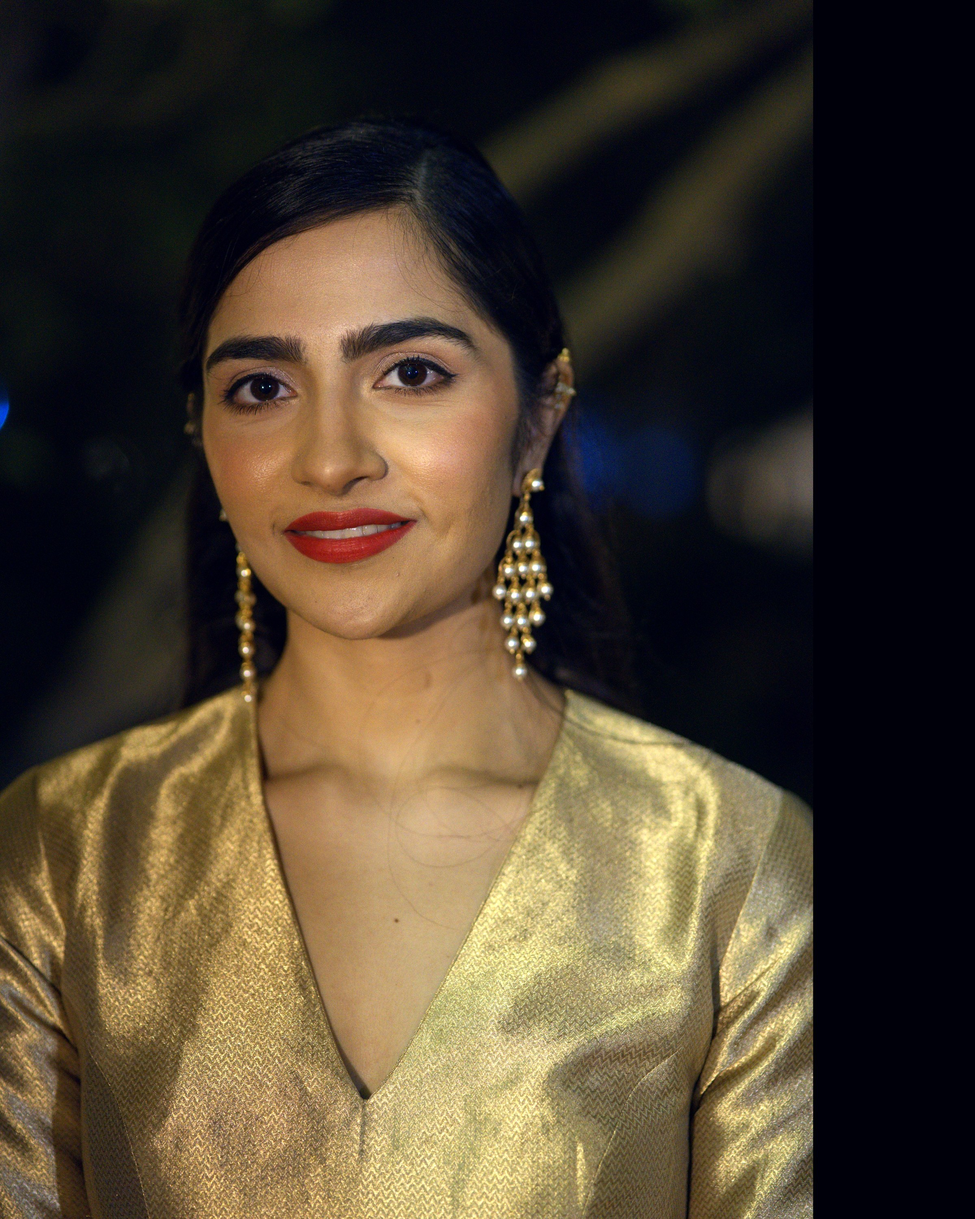
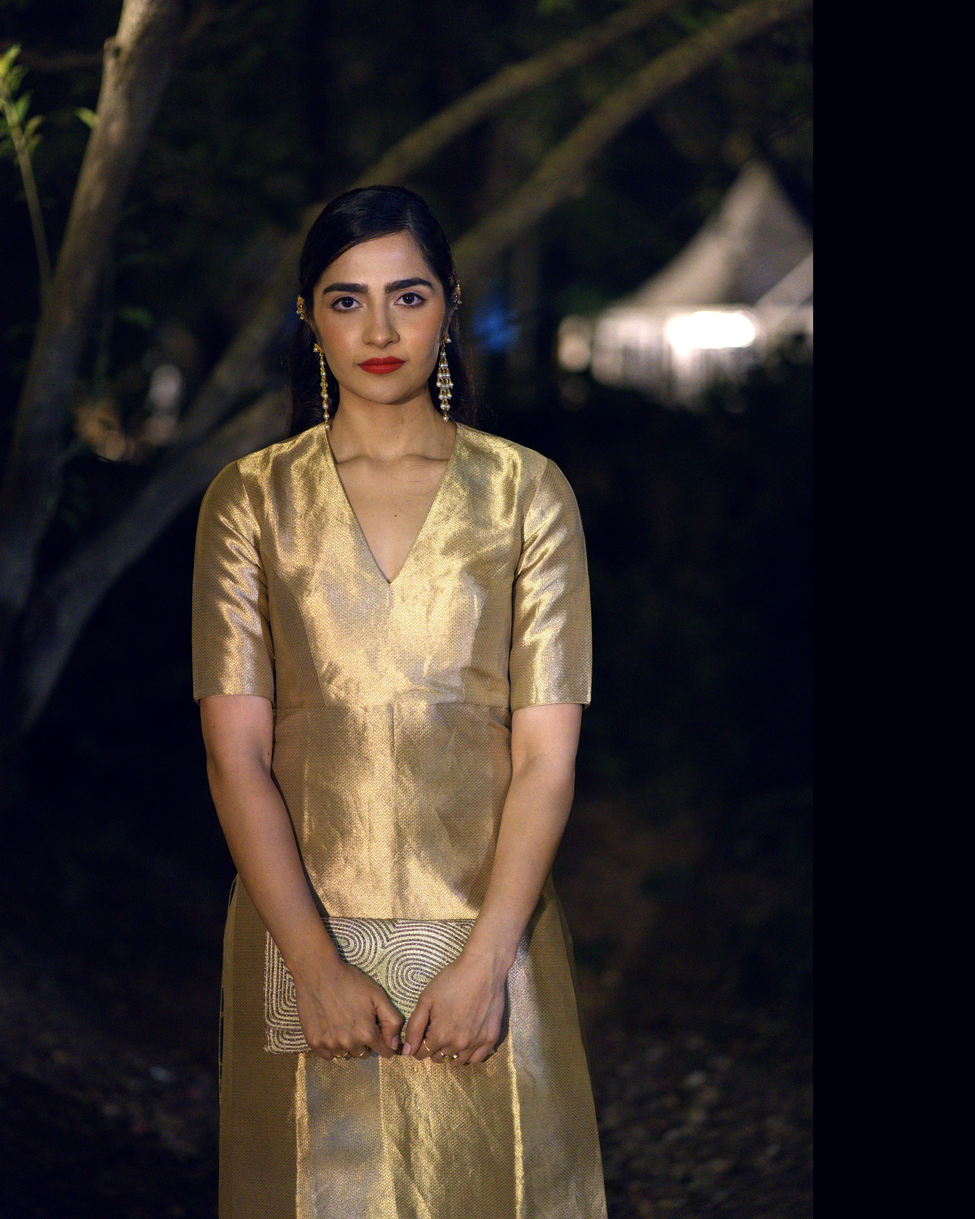
Featured Rukmini: switch to full-length frame (09180) + safe crop position so the face never gets clipped

diff --git a/ruk-choose.html b/ruk-choose.html
@@ -1,0 +1,1 @@
+<!DOCTYPE html><html><head><style>body{background:#0c0a10;color:#eee;font-family:Georgia,serif;margin:24px}h1{font-weight:500}div{display:grid;grid-template-columns:repeat(4,1fr);gap:14px}figure{margin:0}img{width:100%;display:block;border-radius:8px}figcaption{font-family:monospace;font-size:11px;color:#9f9;padding:5px 0}</style></head><body><h1>Pick the Rukmini frame for the Featured card</h1><div><figure><img src="klr-thumbs/ruk-choose/YKS09180.jpg"/><figcaption>09180</figcaption></figure><figure><img src="klr-thumbs/ruk-choose/YKS09181.jpg"/><figcaption>09181</figcaption></figure><figure><img src="klr-thumbs/ruk-choose/YKS09182.jpg"/><figcaption>09182</figcaption></figure><figure><img src="klr-thumbs/ruk-choose/YKS09183.jpg"/><figcaption>09183</figcaption></figure><figure><img src="klr-thumbs/ruk-choose/YKS09184.jpg"/><figcaption>09184</figcaption></figure><figure><img src="klr-thumbs/ruk-choose/YKS09185.jpg"/><figcaption>09185</figcaption></figure><figure><img src="klr-thumbs/ruk-choose/YKS09186.jpg"/><figcaption>09186</figcaption></figure><figure><img src="klr-thumbs/ruk-choose/YKS09187.jpg"/><figcaption>09187</figcaption></figure><figure><img src="klr-thumbs/ruk-choose/YKS09188.jpg"/><figcaption>09188</figcaption></figure><figure><img src="klr-thumbs/ruk-choose/YKS09189.jpg"/><figcaption>09189</figcaption></figure><figure><img src="klr-thumbs/ruk-choose/YKS09190.jpg"/><figcaption>09190</figcaption></figure><figure><img src="klr-thumbs/ruk-choose/YKS09191.jpg"/><figcaption>09191</figcaption></figure><figure><img src="klr-thumbs/ruk-choose/YKS09192.jpg"/><figcaption>09192</figcaption></figure><figure><img src="klr-thumbs/ruk-choose/YKS09193.jpg"/><figcaption>09193</figcaption></figure><figure><img src="klr-thumbs/ruk-choose/YKS09194.jpg"/><figcaption>09194</figcaption></figure><figure><img src="klr-thumbs/ruk-choose/YKS09195.jpg"/><figcaption>09195</figcaption></figure><figure><img src="klr-thumbs/ruk-choose/YKS09196.jpg"/><figcaption>09196</figcaption></figure><figure><img src="klr-thumbs/ruk-choose/YKS09197.jpg"/><figcaption>09197</figcaption></figure><figure><img src="klr-thumbs/ruk-choose/YKS09198.jpg"/><figcaption>09198</figcaption></figure><figure><img src="klr-thumbs/ruk-choose/YKS09199.jpg"/><figcaption>09199</figcaption></figure><figure><img src="klr-thumbs/ruk-choose/YKS09200.jpg"/><figcaption>09200</figcaption></figure><figure><img src="klr-thumbs/ruk-choose/YKS09201.jpg"/><figcaption>09201</figcaption></figure></div></body></html>

diff --git a/index.html b/index.html
@@ -9,7 +9,7 @@
 <link rel="preconnect" href="https://fonts.googleapis.com" />
 <link rel="preconnect" href="https://fonts.gstatic.com" crossorigin />
 <link href="https://fonts.googleapis.com/css2?family=Playfair+Display:ital,wght@0,400;0,500;0,600;0,700;1,400;1,500;1,600&family=Inter:wght@300;400;500;600&family=Space+Grotesk:wght@300;400;500&display=swap" rel="stylesheet" />
-<link rel="stylesheet" href="css/style.css?v=19" />
+<link rel="stylesheet" href="css/style.css?v=20" />
 </head>
 <body>
 
@@ -536,7 +536,7 @@
 <script src="https://cdn.jsdelivr.net/npm/gsap@3.12.5/dist/gsap.min.js"></script>
 <script src="https://cdn.jsdelivr.net/npm/gsap@3.12.5/dist/ScrollTrigger.min.js"></script>
 <script src="https://cdn.jsdelivr.net/npm/lenis@1.1.13/dist/lenis.min.js"></script>
-<script src="js/cinema.js?v=19"></script>
-<script src="js/main.js?v=19"></script>
+<script src="js/cinema.js?v=20"></script>
+<script src="js/main.js?v=20"></script>
 </body>
 </html>

diff --git a/css/style.css b/css/style.css
@@ -287,7 +287,7 @@ img{display:block;max-width:100%}
   transition:border-color .4s,transform .4s var(--ease)}
 .feat-card:hover{border-color:rgba(255,140,59,.5);transform:translateY(-4px)}
 .feat-photo{min-height:340px}
-.feat-photo img{width:100%;height:100%;object-fit:cover;display:block}
+.feat-photo img{width:100%;height:100%;object-fit:cover;object-position:50% 18%;display:block}
 .feat-copy{padding:30px 28px;display:flex;flex-direction:column;gap:14px;justify-content:center}
 .feat-copy h3{font-size:clamp(24px,2.2vw,32px)}
 .feat-copy p{font-size:14px;color:rgba(244,237,226,.8);line-height:1.65;margin:0}
